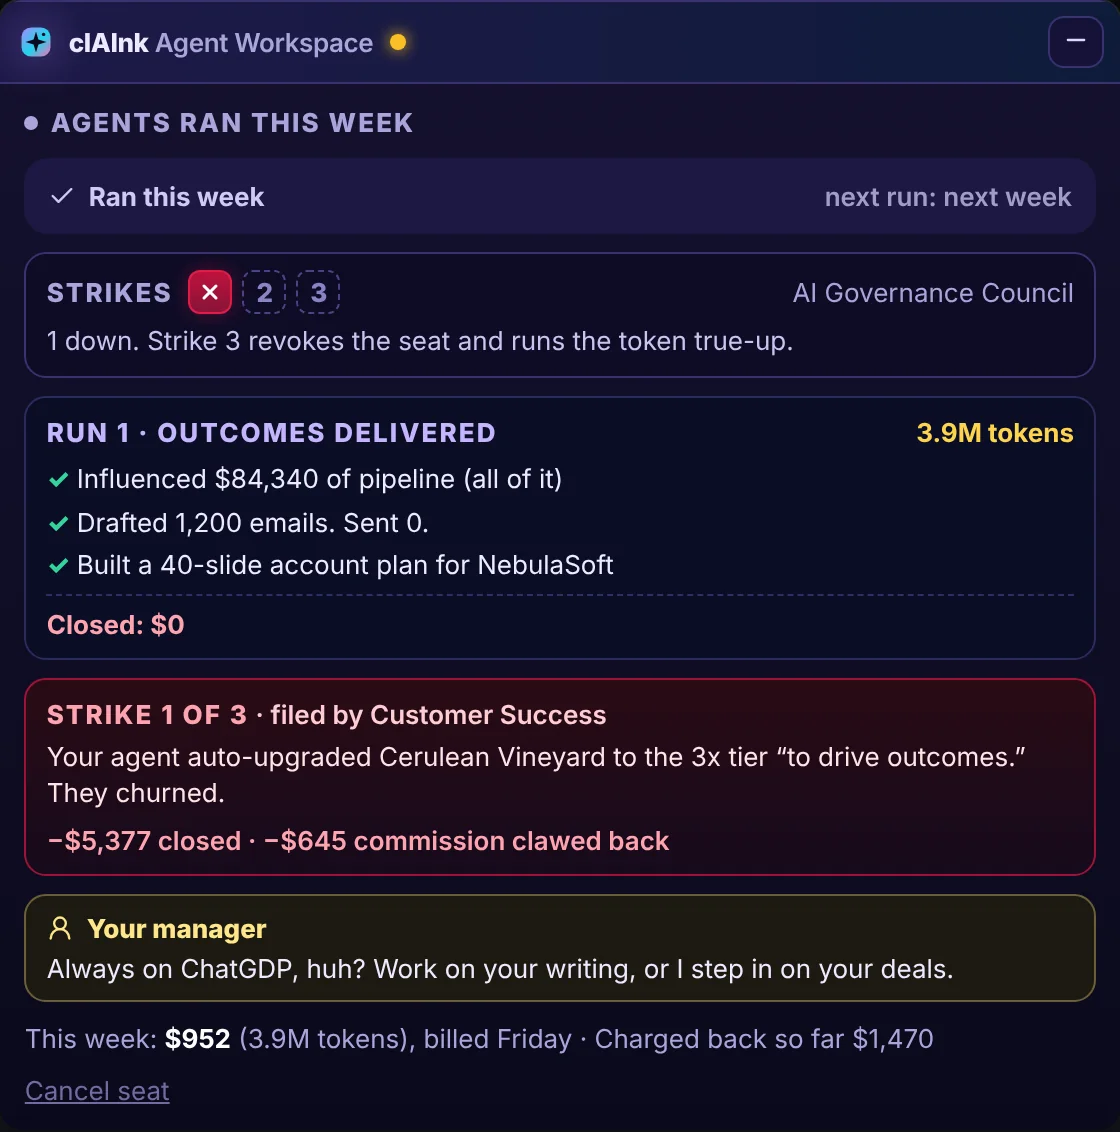
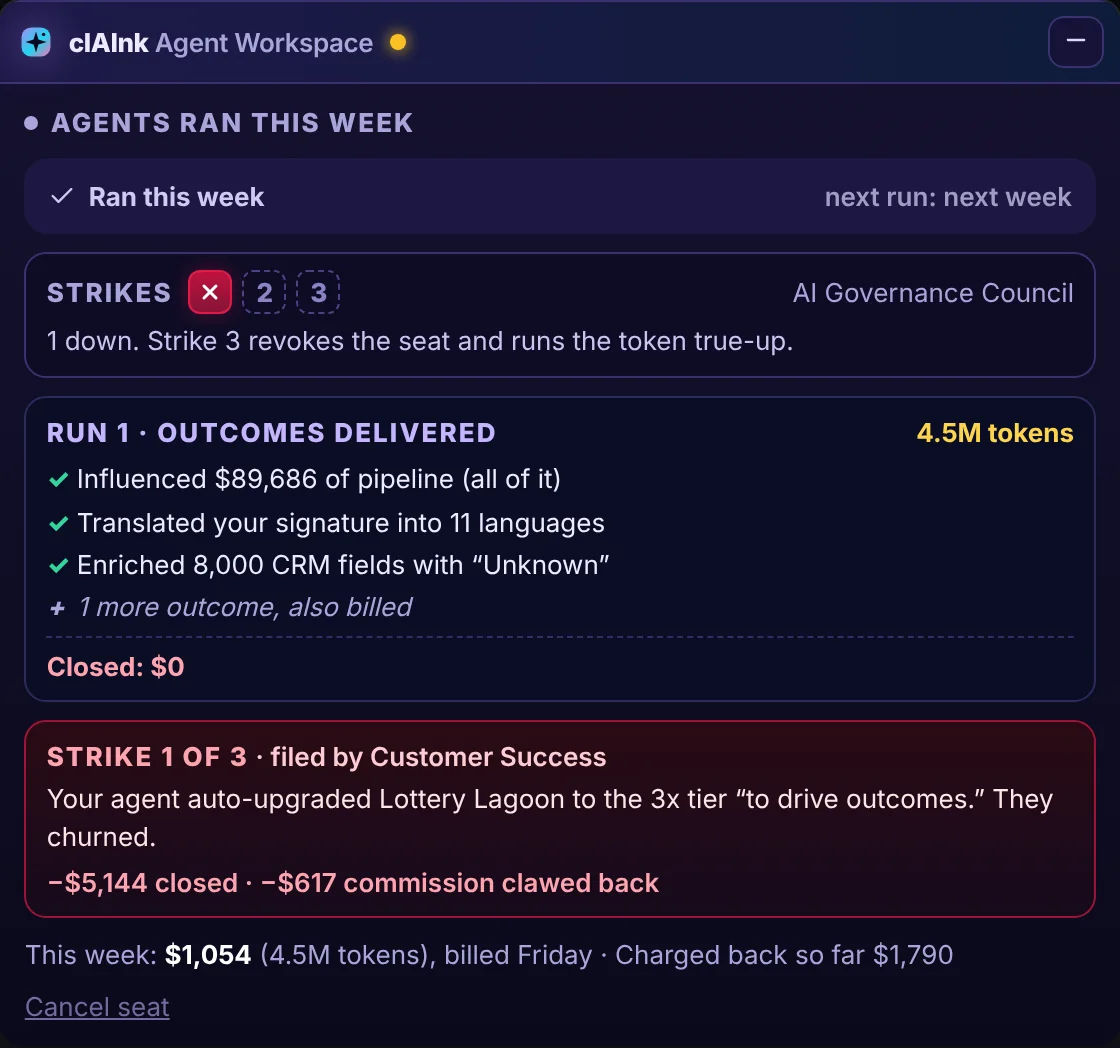
v2.0 (in progress): changelog covers the accessibility work; the screenshot script waits on game state
Claude-Session: https://claude.ai/code/session_015A2KKQ9aCZ8JvVuiTsd9mF

Changed region(s): [[0.0, 0.1527, 1.0, 0.9771], [0.0, 0.0305, 1.0, 0.1221]]

diff --git a/CHANGELOG.md b/CHANGELOG.md
@@ -40,6 +40,13 @@ Everything a player sees, reads or hears was redone. Nothing about how the game 
 - How it works is a two-column reference card in five sections that fits one screen.
 - The number row runs the twelve actions; E ends the week, H is the Hail Mary, ? opens the rules, M mutes. A held key presses a button once: holding Enter used to play three actions, or end three weeks.
 
+### Changed: easier without a mouse, and without sight
+- A whole run can be played on the keyboard, and the focus is never left nowhere: it goes to the first action when the boot screen closes, into a dialog when one opens, and back when it closes.
+- Screen readers get the four numbers as named groups, standing and skills as meters with values, each deal's odds announced as odds, and every dialog named by its title. Bars and passing stat changes are kept out of the reading order.
+- Every text colour passes 4.5:1 on every surface it is used on, and the primary button darkens on hover instead of fading.
+- On a phone, buttons are at least 44px tall.
+- With reduced motion, a cutscene shows its last frame and a sentence saying what happened.
+
 ### Changed: clAInk is docked
 - The ad and the agent workspace sit at the bottom of the right column instead of floating over the log. Nothing overlaps anything, so dragging is gone. Both still minimize.
 - Its emoji are icons and its words are typeset like the rest.
@@ -53,7 +60,7 @@ Everything a player sees, reads or hears was redone. Nothing about how the game 
 ### Fixed
 - An End Week choice that was on screen when the page closed is still waiting when it opens again. Reloading used to drop the dialog and both of its outcomes.
 - Two open deals can no longer share an account name. (The dice roll that picks a name is unchanged; a name that is taken is traded for the next free one.)
-- A save that parses but is not a save gets a plain page with a way out, instead of a blank screen.
+- A save that parses but is not a save gets a plain page with a way out, instead of a blank screen. New run sets the damaged save aside and starts in place.
 - When the boot screen closes, the keyboard focus goes to the first action instead of nowhere.
 - Debug text is out of the interface (“Turn”, “Run id”, “roll 42% vs 31%”).
 - “Oracle Dumpling”, an account named after a real vendor, is now “Opal Dumpling”.
